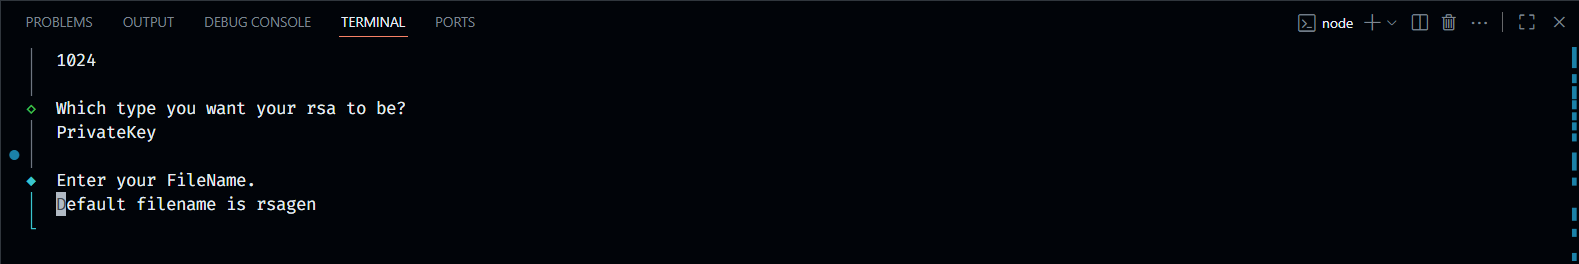
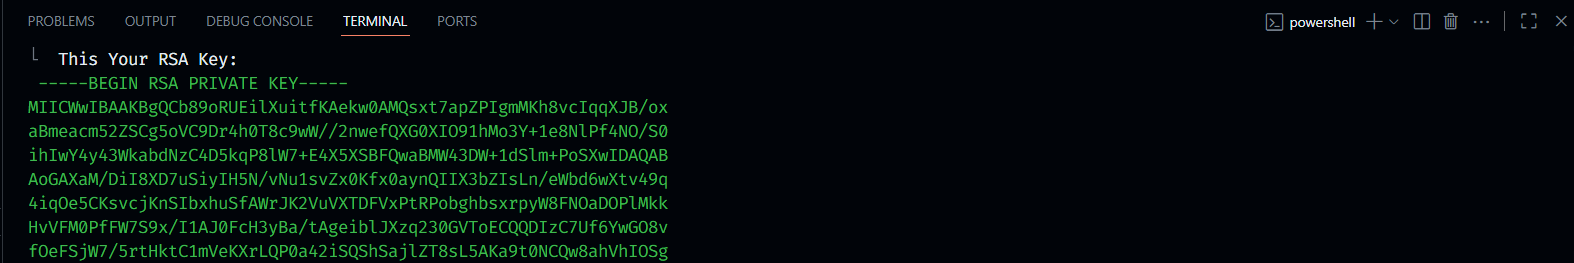
Initial commit

diff --git a/index.js b/index.js
@@ -30,21 +30,6 @@ const type = await select({
     ]
 })
 
-const fileName = await text({
-    message: "Enter your FileName.",
-    placeholder: "Default filename is rsagen",
-    defaultValue: 'rsagen'
-})
-let URL = await text({
-    message: 'Where is your path to write rsa?',
-    placeholder : `Default URL is ./${fileName}`, 
-    defaultValue: `./${fileName}.key`
-})
-if (fs.existsSync(URL) && fs.lstatSync(URL).isDirectory()) {
-    URL = path.join(URL, `${fileName}.key`)
-}
-const dirName = path.dirname(URL)
-fs.mkdirSync(dirName, { recursive: true })
 
 if (type === 'privateKey') {
     const { privateKey } = crypto.generateKeyPairSync('rsa', {
@@ -54,7 +39,7 @@ if (type === 'privateKey') {
             format: 'pem'
         }
     })
-    fs.writeFileSync(URL, privateKey)
+    outro(`This Your RSA Key:\n ${chalk.green(privateKey)}`)
 } else {
     const { publicKey } = crypto.generateKeyPairSync('rsa', {
         modulusLength: Number(bite),
@@ -63,10 +48,10 @@ if (type === 'privateKey') {
             format: 'pem'
         }
     })
-    fs.writeFileSync(URL, publicKey)
+    
+    outro(`This Your RSA Key:\n ${chalk.green(publicKey)}`)
 }
 
 
 
-outro(`rsa key write in ${chalk.green(fileName)} successfully.`)
 outro(`${chalk.white(" rsagen ")}Made By AmirCodeZ`)

diff --git a/README.md b/README.md
@@ -25,6 +25,10 @@ To install Rsagen globally, run the following command in your terminal:
 npm install Rsagen
 ```
 
+```bash
+npx rsagen
+```
+
 ## Usage
 
 ```sh
@@ -39,17 +43,9 @@ Rsagen
 
 ![image](https://github.com/AmirCodeZ/rsagen/blob/main/assets/Chapter%202.PNG)
 
-3. Next, enter the filename for your key:
+3. Finally, you will see a success message, indicating that your key has been created:
 
 ![image](https://github.com/AmirCodeZ/rsagen/blob/main/assets/Chapter3.PNG)
-
-4. Next, enter the path where you want to create your file:
-
-![image](https://github.com/AmirCodeZ/rsagen/blob/main/assets/Chapter%204.PNG)
-
-5. Finally, you will see a success message, indicating that your key has been created:
-
-![image](https://github.com/AmirCodeZ/rsagen/blob/main/assets/Chapter5.PNG)
 
 **Made by AmirCodeZ**
 
